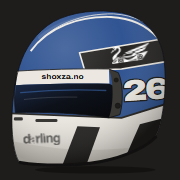
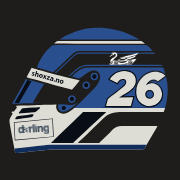
feat: launch details and the Recraft helmet
Fills in the owner's contact details, Discord ID and Poker Dice copy
(launch check passes) and replaces the hand-drawn helmet with the owner's
Recraft design, recoloured to deep blue with the GTR and darling decals.

diff --git a/tests/render.test.ts b/tests/render.test.ts
@@ -46,7 +46,9 @@ test('RaceAssistant article contains svg.lap-trace; others contain no visual ele
 })
 
 test('radio box is omitted when radio === PENDING; shown with the exact text otherwise', () => {
-  const doc = mount()
+  const s = clone()
+  s.projects[2].radio = PENDING
+  const doc = mount(s)
   expect(doc.querySelector('#p-poker-dice .radio')).toBeNull()
   expect(text(doc.querySelector('#p-anti-f1-spoiler .radio q'))).toBe(site.projects[1].radio)
 })
@@ -61,7 +63,9 @@ test('links section is omitted when links is empty, shown when present', () => {
 })
 
 test('features list shows each feature, and is omitted when empty', () => {
-  const doc = mount()
+  const s = clone()
+  s.projects[2].features = []
+  const doc = mount(s)
   expect([...doc.querySelectorAll('#p-raceassistant .features li')].map(text)).toEqual(site.projects[0].features)
   expect(doc.querySelector('#p-poker-dice .features')).toBeNull()
 })
@@ -78,7 +82,10 @@ test('crew rows: GTR seasons on=[25,26,27]; Darling 25 off, 26 and 27 on', () =>
 })
 
 test('contact omits email/LinkedIn while PENDING and always shows GitHub', () => {
-  let links = [...mount().querySelectorAll('#contact a')]
+  const pending = clone()
+  pending.profile.email = PENDING
+  pending.profile.linkedin = PENDING
+  let links = [...mount(pending).querySelectorAll('#contact a')]
   expect(links.map(a => a.getAttribute('href'))).toEqual(['https://github.com/Shoxza'])
   const s = clone()
   s.profile.email = 'hi@shoxza.no'

diff --git a/src/data/site.ts b/src/data/site.ts
@@ -1,4 +1,4 @@
-import { PENDING, type Site } from './types'
+import type { Site } from './types'
 
 // Every fact here comes from the owner or the projects' READMEs. Never invent content.
 // Anything still PENDING blocks launch (see launch.ts).
@@ -8,10 +8,10 @@ export const site: Site = {
     number: 26,
     title: 'Junior developer',
     location: 'Gjøvik, Norway',
-    email: PENDING,
-    linkedin: PENDING,
+    email: 'benjaminhughes19@hotmail.com',
+    linkedin: 'https://www.linkedin.com/in/ben-hughes-tretnes-163a77387/',
     github: 'https://github.com/Shoxza',
-    discordId: PENDING,
+    discordId: '250990757962448897',
   },
   projects: [
     {
@@ -54,9 +54,14 @@ export const site: Site = {
       year: 2026,
       stack: ['MongoDB', 'Express', 'React', 'Node'],
       description: 'A full-stack MERN dice game built as a team for the IDG2100 exam.',
-      features: [],
+      features: [
+        "Dice rolled on the server, so players can't cheat",
+        'Matchmaking and tournaments',
+        'ELO rating leaderboard',
+        'Comments, JWT login and admin pages',
+      ],
       role: 'Full-stack, team project',
-      radio: PENDING,
+      radio: "Dice are rolled on the server. Nobody's cheating on this table.",
       links: [],
       visual: null,
     },

diff --git a/tests/meta.test.ts b/tests/meta.test.ts
@@ -24,11 +24,15 @@ test('favicon and apple touch icon', () => {
   expect(attr('link[rel="apple-touch-icon"]', 'href')).toBe('/apple-touch-icon.png')
 })
 
-test('helmet carries shoxza.no and 26, and no blur/glow filter', () => {
-  expect(helmet).toContain('shoxza.no')
-  expect(helmet).toMatch(/>26</)
+test('helmet is labelled with its number and domain, and has no blur/glow filter', () => {
+  // The 26 and shoxza.no are drawn as shapes (Recraft artwork); the label carries them for screen readers.
+  expect(helmet).toMatch(/<title>Helmet number 26, shoxza\.no<\/title>/)
+  expect(helmet).toMatch(/aria-label="Helmet number 26, shoxza\.no"/)
   expect(helmet).not.toMatch(/feGaussianBlur/)
-  expect(helmet).toMatch(/aria-label="Helmet number 26"/)
+})
+
+test('helmet has no full-canvas background (sits on the page asphalt)', () => {
+  expect(helmet).not.toContain('M0 0L1024 0L1024 1024L0 1024L0 0Z')
 })
 
 test('helmet uses the deep blue top and both sponsor logos', () => {

diff --git a/tests/data.test.ts b/tests/data.test.ts
@@ -28,6 +28,7 @@ test('launchCheck lists every pending input and nothing else', () => {
   s.profile.linkedin = PENDING
   s.profile.discordId = PENDING
   s.projects[2].radio = PENDING
+  s.projects[2].features = []
   expect(launchCheck(s)).toEqual([
     'profile.email',
     'profile.linkedin',
